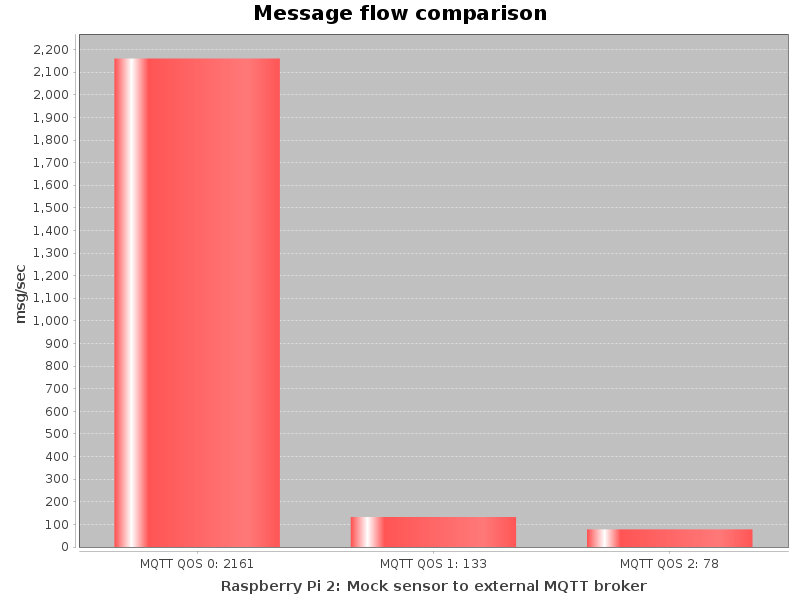
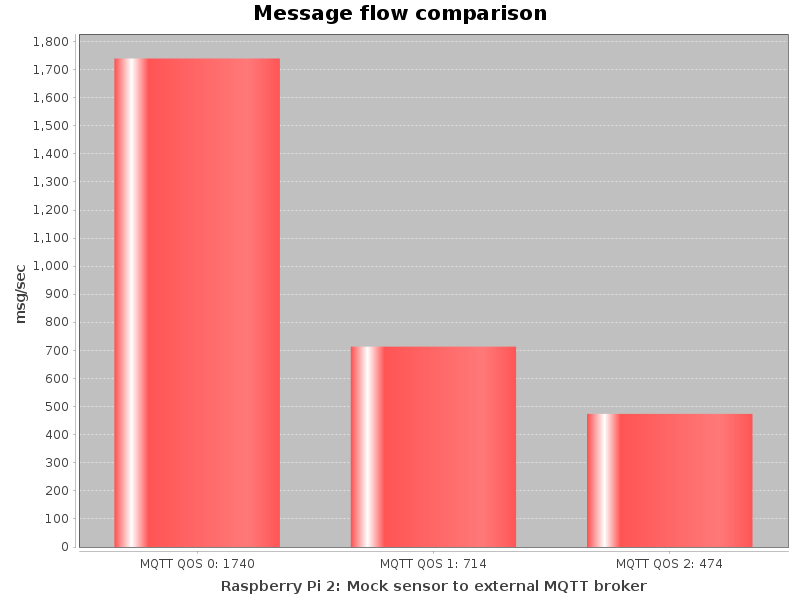
Updated RPI2 bechmarks.

diff --git a/iot/readme.md b/iot/readme.md
@@ -816,7 +816,7 @@ throughput for QOS 1 and 2 is limited for the extremely large number of messages
 Regardless of the current Paho limits (that are very likely to be changed in the future), the overall performance of the
 MQTT client is really great. As the majority of the gateway solutions can safely uses the QOS 0 for forwarding the data
 from the field to the data center (as losing the single message from the stream of the sensors data, is definitely acceptable).
-Almost 2000 messages per second for QOS 0 and around 100 messages per second for the highest QOS 2 is really good result
+Almost 1800 messages per second for QOS 0 and around 500 messages per second for the highest QOS 2 is really good result
 considering the class of the Raspberry Pi 2 hardware.
 
 ## Articles, presentations & videos
